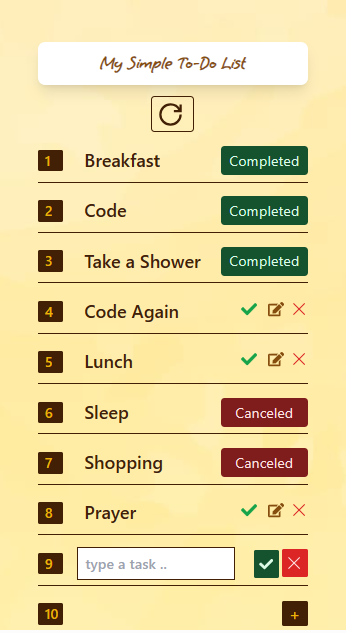
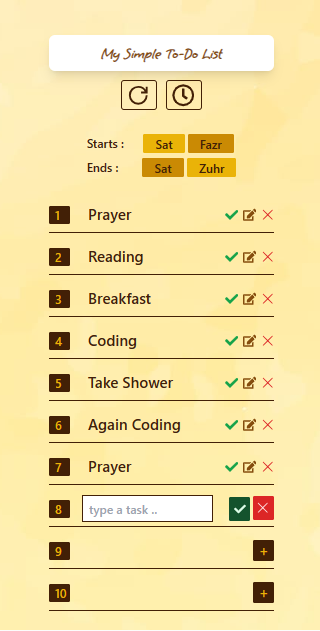
added time table options

Changed region(s): [[0.0, 0.0301, 1.0, 1.0], [0.9688, 0.7227, 1.0, 0.7829], [0.8438, 0.4818, 0.875, 0.5119]]

diff --git a/src/components/scheduling-section/time-table/TimeTable.js b/src/components/scheduling-section/time-table/TimeTable.js
@@ -1,0 +1,94 @@
+import React, { useState } from 'react';
+import './TimeTable.css';
+import { FaCheck } from 'react-icons/fa';
+import { RxCross1 } from 'react-icons/rx';
+
+const TimeTable = ({ schedule, setSchedule, isTimeTableShown, setIsTimeTableShown }) => {
+    const days = ['Fri', 'Sat', 'Sun', 'Mon', 'Tue', 'Wed', 'Thurs'];
+    const times = ['Fazr', 'Zuhr', 'Asr', 'Magrib', 'Esha'];
+
+    const [startDay, setStartDay] = useState(schedule?.startDay || '');
+    const [startTime, setStartTime] = useState(schedule?.startTime || '');
+
+    const [endDay, setEndDay] = useState(schedule?.endDay || '');
+    const [endTime, setEndTime] = useState(schedule?.endTime || '');
+
+    const handleScheduleSubmit = () => {
+        const schedule = {
+            startDay,
+            startTime,
+            endDay,
+            endTime
+        }
+        const scheduleStringified = JSON.stringify(schedule)
+        localStorage.setItem('schedule', scheduleStringified)
+        setSchedule(schedule);
+        setIsTimeTableShown(false);
+    }
+
+    return (
+        <div className={`time-table w-screen bg-yellow-950 opacity-90 flex flex-col gap-8 items-center py-24`}>
+
+            <div className='flex flex-col gap-5 w-[300px]'>
+                <p className='text-white font-bold text-2xl'>Your Schedule <span className='text-yellow-500'>STARTS :</span></p>
+
+                <select onChange={e => setStartDay(e.target.value)} className='rounded p-1 font-semibold w-full'>
+                    <option disabled selected>Pick a day</option>
+                    {
+                        days.map(day => {
+                            if (startDay === day) return <option key={day} value={day} selected>{day}</option>
+                            return <option key={day} value={day}>{day}</option>
+                        })
+                    }
+                </select>
+
+                <select onChange={e => setStartTime(e.target.value)} className='rounded p-1 font-semibold w-full'>
+                    <option disabled selected>Pick a time</option>
+                    {
+                        times.map(time => {
+                            if (startTime === time) return <option key={time} value={time} selected>{time}</option>
+                            return <option key={time} value={time}>{time}</option>
+                        })
+                    }
+                </select>
+            </div>
+
+            <div className='flex flex-col gap-5 w-[300px]'>
+                <p className='text-white font-bold text-2xl'>Your Schedule <span className='text-yellow-500'>ENDS :</span></p>
+
+                <select onChange={e => setEndDay(e.target.value)} className='rounded p-1 font-semibold w-full'>
+                    <option disabled selected>Pick a day</option>
+                    {
+                        days.map(day => {
+                            if (endDay === day) return <option key={day} value={day} selected>{day}</option>
+                            return <option key={day} value={day}>{day}</option>
+                        })
+                    }
+                </select>
+
+                <select onChange={e => setEndTime(e.target.value)} className='rounded p-1 font-semibold w-full'>
+                    <option disabled selected>Pick a time</option>
+                    {
+                        times.map(time => {
+                            if (endTime === time) return <option key={time} value={time} selected>{time}</option>
+                            return <option key={time} value={time}>{time}</option>
+                        })
+                    }
+                </select>
+            </div>
+
+            <div className='flex gap-16 text-4xl mt-8'>
+                <div onClick={handleScheduleSubmit} className='text-green-300 p-2 border rounded-full border-green-300'>
+                    <FaCheck></FaCheck>
+                </div>
+
+                <div onClick={() => setIsTimeTableShown(false)} className='text-red-300 p-2 border rounded-full border-red-300'>
+                    <RxCross1></RxCross1>
+                </div>
+
+            </div>
+        </div>
+    );
+};
+
+export default TimeTable;

diff --git a/src/App.js b/src/App.js
@@ -2,17 +2,30 @@ import './App.css';
 import AppFooter from './components/app-footer/AppFooter';
 import AppHeader from './components/app-header/AppHeader';
 import ResetButton from './components/reset-button/ResetButton';
+import AppointedTime from './components/appointed-time/AppointedTime';
 import TaskList from './components/task-list/TaskList';
+import SchedulingSection from './components/scheduling-section/SchedulingSection'
+import { useState } from 'react';
 
 function App() {
+
+  const [schedule, setSchedule] = useState(JSON.parse(localStorage.getItem('schedule')) || null)
 
   return (
     <div className='w-full pt-12 flex flex-col items-center justify-between gap-12 App'>
       <div className='w-[300px] flex flex-col items-center'>
         <AppHeader></AppHeader>
-        <ResetButton></ResetButton>
+
+        <div className={`flex gap-3 mb-3`}>
+          <ResetButton></ResetButton>
+          <SchedulingSection schedule={schedule} setSchedule={setSchedule}></SchedulingSection>
+        </div>
+
+        <AppointedTime schedule={schedule}></AppointedTime>
+
         <TaskList></TaskList>
       </div>
+
       <AppFooter></AppFooter>
     </div>
 

diff --git a/src/components/scheduling-section/SchedulingSection.js b/src/components/scheduling-section/SchedulingSection.js
@@ -1,0 +1,27 @@
+import React, { useState } from 'react';
+import { FaRegClock } from "react-icons/fa";
+import TimeTable from './time-table/TimeTable';
+
+const ScheduleSection = ({ schedule, setSchedule }) => {
+
+    const [isTimeTableShown, setIsTimeTableShown] = useState(false)
+
+    return (
+        <div>
+            <div className='w-12 h-10 mt-3 text-3xl border border-yellow-950 text-yellow-950 rounded pt-1 ps-[6px]  hover:border-yellow-600 hover:text-yellow-600' onClick={() => setIsTimeTableShown(true)}>
+                <FaRegClock></FaRegClock>
+            </div>
+            {
+                isTimeTableShown &&
+                <TimeTable
+                    schedule={schedule}
+                    setSchedule={setSchedule}
+                    isTimeTableShown={isTimeTableShown}
+                    setIsTimeTableShown={setIsTimeTableShown}
+                ></TimeTable>
+            }
+        </div>
+    );
+};
+
+export default ScheduleSection;

diff --git a/src/components/appointed-time/AppointedTime.js b/src/components/appointed-time/AppointedTime.js
@@ -1,0 +1,13 @@
+import React from 'react';
+
+const AppointedTime = ({ schedule }) => {
+
+    if (schedule) return (
+        <div className='text-yellow-950 my-5 font-semibold'>
+            <p className='mb-2'>Starts :<span className='ms-[26px] py-[2px] bg-yellow-500 px-4 rounded-sm'>{schedule.startDay}</span> <span className='bg-yellow-600 py-[2px] px-4 rounded-sm'>{schedule.startTime}</span></p>
+            <p>Ends :<span className='ms-8 bg-yellow-600 py-[2px] px-4 rounded-sm'>{schedule.endDay}</span> <span className='bg-yellow-500 px-4 py-[2px] rounded-sm'>{schedule.endTime}</span></p>
+        </div>
+    );
+};
+
+export default AppointedTime;

diff --git a/src/components/reset-button/ResetButton.js b/src/components/reset-button/ResetButton.js
@@ -19,7 +19,7 @@ const ResetButton = () => {
     }
 
     return (
-        <div className='w-12 h-10 mt-3 text-3xl border border-yellow-950 text-yellow-950 rounded pt-1 ps-[6px]' onClick={handleReset}>
+        <div className='w-12 h-10 mt-3 text-3xl border border-yellow-950 text-yellow-950 rounded pt-1 ps-[6px] hover:border-yellow-600 hover:text-yellow-600' onClick={handleReset}>
             <GrPowerReset></GrPowerReset>
         </div>
     );

diff --git a/src/components/scheduling-section/time-table/TimeTable.css b/src/components/scheduling-section/time-table/TimeTable.css
@@ -1,0 +1,5 @@
+.time-table {
+    position: fixed;
+    top: 0;
+    left: 0;
+}
